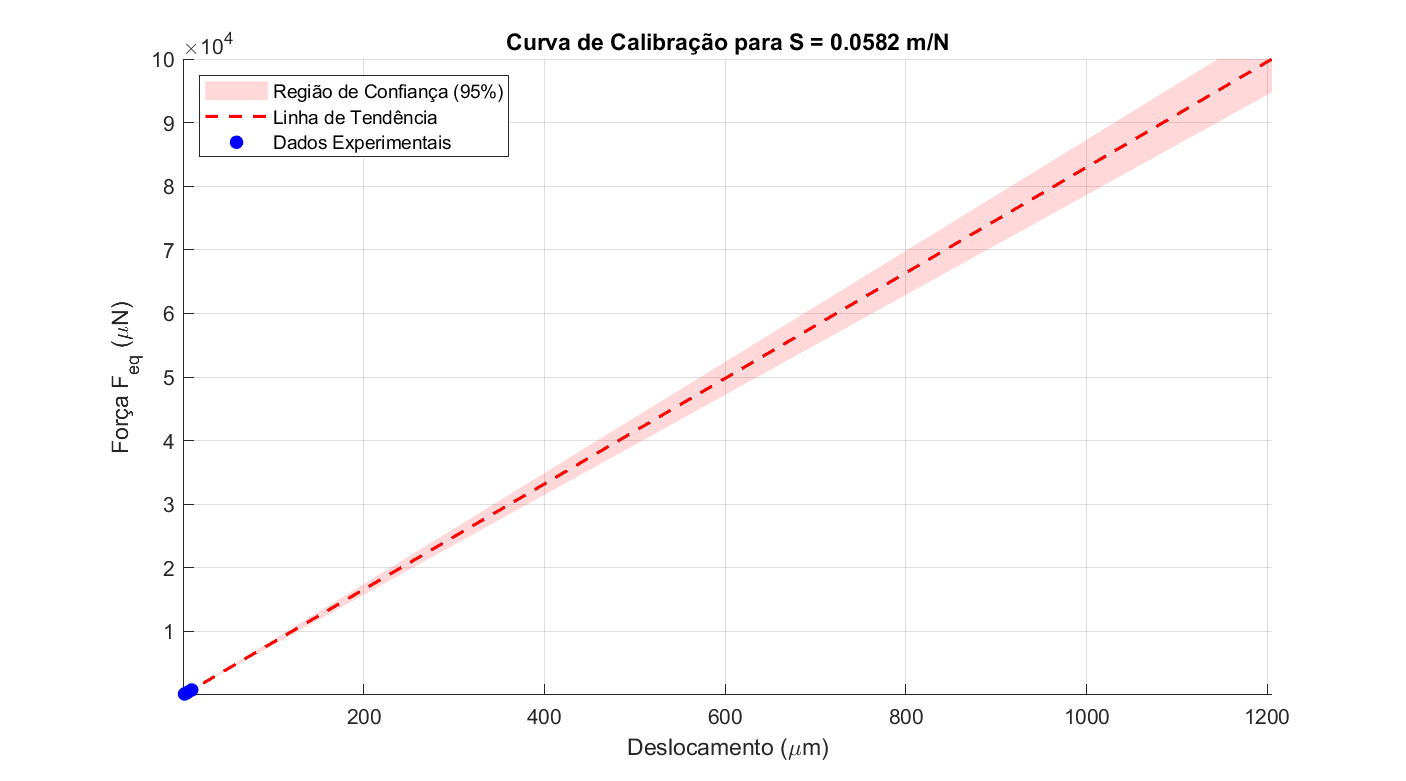
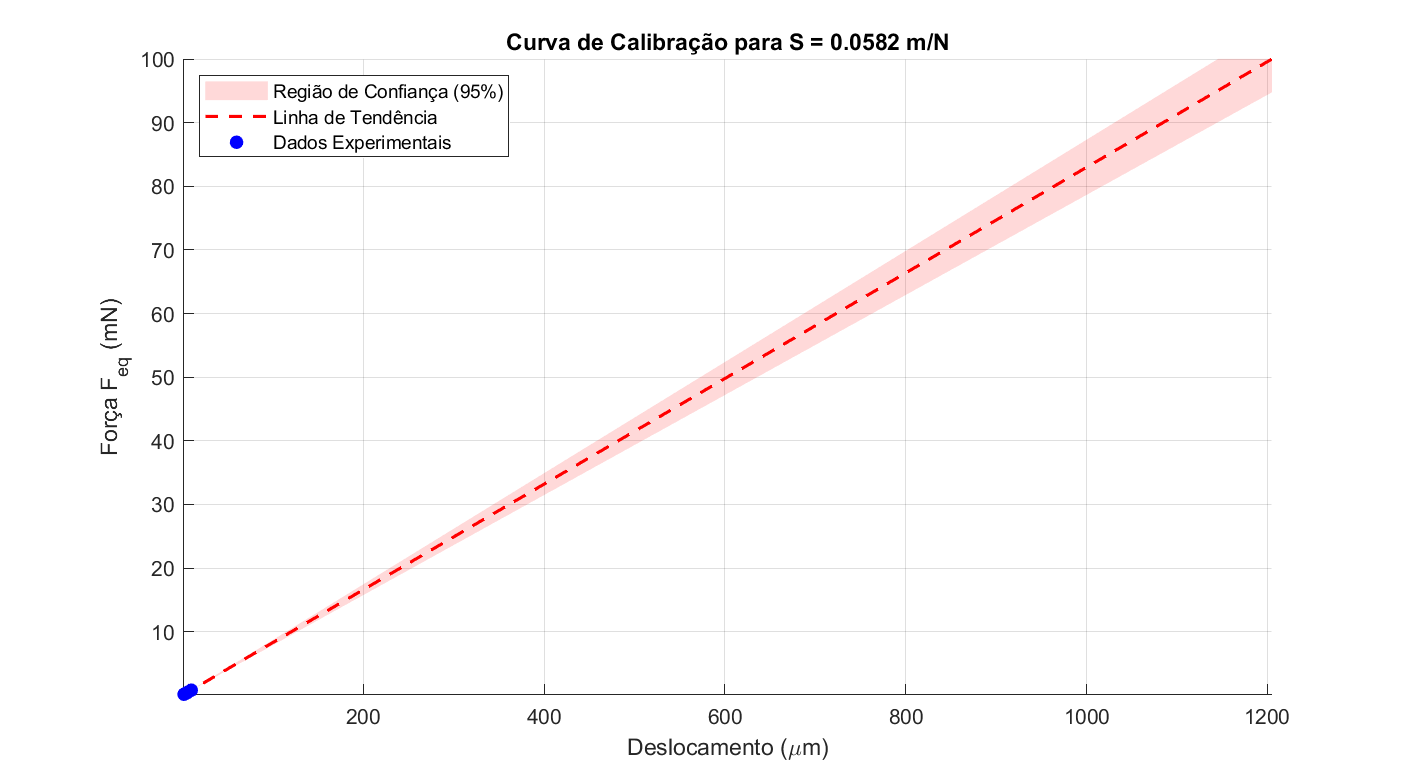
Atualização do range de forças: 0,5 até 100 mN

diff --git a/Análises/src/graph_calibracao.m b/Análises/src/graph_calibracao.m
@@ -1,4 +1,5 @@
 clear all; clc;
+
 % ==============================================================================
 % 1. KNOWN INPUT DATA
 % ==============================================================================
@@ -8,22 +9,25 @@ S_maior = 0.0939; % [m/N]
 S_S2 = 0.0517;
 S_1_junho = 0.0518;
 
-% Vetor da primeira coluna (Deslocamento/Deflexão)
+% Vetor da primeira coluna (Deslocamento/Deflexão) em µm
 d = [1.8039, 3.9369, 5.8372, 9.7834];
 d_maior = [3.3523, 6.7382, 9.5474, 14.2316];
 d_S2 = [1.843000, 2.953000, 3.832000, 8.125000, 12.431000, 16.988000, 11.738000, 16.135000, 21.305000, 17.254000, 23.252000, 30.319000, 25.455000, 35.177000, 46.763500, 31.620000, 39.336500];
 d_1_junho = [2.403500, 3.558790, 8.633470, 13.283070, 17.047410, 11.899050, 11.899050, 17.967160, 23.099000, 17.077400, 25.282920, 43.202470, 19.815610, 30.164730, 39.264370, 26.991540, 63.414910];
+
 d_todos = {d, d_maior, d_S2, d_1_junho};
 
-% Vetor da segunda coluna (Força)
+% Vetor da segunda coluna (Força) em µN
 f = [167.1960, 324.3694, 486.3337, 808.3664];
 f_maior = [167.1960, 418.8246, 618.1822, 918.3950];
 f_S2 = [38.7153, 73.7835, 108.8517, 166.9689, 318.2088, 469.4487, 219.4649, 418.2556, 617.0463, 323.9287, 617.3423, 910.7560, 481.2407, 917.1472, 1353.0536, 634.0472, 807.2681];
 f_1_junho = [38.7153, 73.7835, 108.8517, 166.9689, 318.2088, 469.4487, 219.4649, 418.2556, 617.0463, 323.9287, 617.3423, 910.7560, 481.2407, 917.1472, 1353.0536, 634.0472, 807.2681];
-f_todos = {f, f_maior, f_S2, f_1_junho};
 
+f_todos = {f, f_maior, f_S2, f_1_junho};
 S_todos = [S, S_maior, S_S2];
+
 titulos_janela = {'S = 0.0582', 'S = 0.0939', 'S = 0.0697', 'S = 1 junho'};
+
 caminhos_salvamento = {
     'C:\Users\thami\OneDrive - unb.br\FGA\Balança de Microempuxo - LaSE\Integrated-Software-Architecture-for-Micro-Thrust-Balance\Análises\resultados\carga_constante\sensibilidade intermediaria', ...
     'C:\Users\thami\OneDrive - unb.br\FGA\Balança de Microempuxo - LaSE\Integrated-Software-Architecture-for-Micro-Thrust-Balance\Análises\resultados\carga_constante\maior sensibilidade', ...
@@ -32,12 +36,13 @@ caminhos_salvamento = {
 };
 
 % ==============================================================================
-% DEFINIÇÃO DO REGIME DE EXTRAPOLAÇÃO: 10 µN até 100.000 µN (100 mN)
+% DEFINIÇÃO DO REGIME DE EXTRAPOLAÇÃO: 50 µN (0.05 mN) até 100.000 µN (100 mN)
+% (Mantemos o vetor interno em µN para o cálculo correto da Incerteza/Matrizes)
 % ==============================================================================
-F_extrapolada = linspace(10, 100000, 1000); 
+F_extrapolada = linspace(50, 100000, 1000); 
 
 % --- Loop 1: Gerar, plotar e salvar os gráficos individuais ---
-for i = 1:3 % Atualizado para 3 gráficos ao invés de 4
+for i = 1:3 
     d_atual = d_todos{i};
     f_atual = f_todos{i};
     S_atual = S_todos(i);
@@ -64,7 +69,7 @@ for i = 1:3 % Atualizado para 3 gráficos ao invés de 4
     cov_ab = C(1,2);
     % -----------------------------------------------------
     
-    % Deslocamento Extrapolado (Baseado no vetor F_extrapolada de 10 a 100k)
+    % Deslocamento Extrapolado (Baseado no vetor F_extrapolada)
     d_plot = F_extrapolada / a; 
     
     % Propagação da Incerteza 
@@ -79,23 +84,23 @@ for i = 1:3 % Atualizado para 3 gráficos ao invés de 4
        
     hold on;
     
-    % 1. Plota a região de confiança sombreada 
-    fill([d_plot, fliplr(d_plot)], [f_sup, fliplr(f_inf)], 'r', ...
+    % 1. Plota a região de confiança sombreada (Forças divididas por 1000 para virar mN)
+    fill([d_plot, fliplr(d_plot)], [f_sup/1000, fliplr(f_inf)/1000], 'r', ...
         'FaceAlpha', 0.15, 'EdgeColor', 'none', 'HandleVisibility', 'on');
     
-    % 2. Plota a linha de tendência extrapolada
-    plot(d_plot, F_extrapolada, 'r--', 'LineWidth', 1.5); 
+    % 2. Plota a linha de tendência extrapolada (em mN)
+    plot(d_plot, F_extrapolada/1000, 'r--', 'LineWidth', 1.5); 
     
-    % 3. Plota os dados experimentais 
-    plot(d_atual, f_atual, 'bo', 'MarkerSize', 6, 'MarkerFaceColor', 'b'); 
+    % 3. Plota os dados experimentais (em mN)
+    plot(d_atual, f_atual/1000, 'bo', 'MarkerSize', 6, 'MarkerFaceColor', 'b'); 
     
     legend('Região de Confiança (95%)', 'Linha de Tendência', 'Dados Experimentais', 'Location', 'northwest');
     title(sprintf('Curva de Calibração para S = %.4f m/N', S_atual));
     xlabel('Deslocamento (\mum)');
-    ylabel('Força F_{eq} (\muN)');
+    ylabel('Força F_{eq} (mN)'); % Label atualizado para mN
     
-    % Impondo limites (10 a 100.000 µN)
-    ylim([10 100000]);
+    % Impondo limites (0.05 a 100 mN)
+    ylim([0.05 100]);
     xlim([min(d_plot) max(d_plot)]);
     
     grid on;
@@ -114,13 +119,12 @@ end
 % --- Nova Figura: Comparativo das Curvas de Tendência ---
 fig_comp = figure('Name', 'Comparativo de Sensibilidades', 'Color', 'w', 'Position', [300, 200, 900, 500]);
 hold on;
-estilos_linha = {'-k', '--k', ':k'}; % Atualizado para 3 estilos
+
+estilos_linha = {'-k', '--k', ':k'}; 
 legendas_comp = cell(1, 3);
 fprintf('\n--- Equações das Retas de Tendência (Feq = a * d) ---\n');
+a_min = inf; 
 
-a_min = inf; % Variável para encontrar a reta com menor inclinação e definir o limite X
-
-% Loop alterado para 3
 for i = 1:3 
     d_atual = d_todos{i};
     f_atual = f_todos{i};
@@ -134,27 +138,28 @@ for i = 1:3
         a_min = a;
     end
     
-    % Extrapolação baseada na força (10 a 100.000 µN)
+    % Extrapolação baseada na força
     d_plot = F_extrapolada / a;
     
-    % Plota a linha extrapolada
-    plot(d_plot, F_extrapolada, estilos_linha{i}, 'LineWidth', 1.5);
+    % Plota a linha extrapolada (convertida para mN dividindo por 1000)
+    plot(d_plot, F_extrapolada/1000, estilos_linha{i}, 'LineWidth', 1.5);
     
-    % Legenda e Impressão
+    % Legenda e Impressão (Mantendo a equação impressa no console com as unidades da física originais)
     legendas_comp{i} = sprintf('S = %.4f m/N', S_atual);
-    fprintf('S = %.4f m/N -> Feq = %.4f * d\n', S_atual, a);
+    fprintf('S = %.4f m/N -> Feq(µN) = %.4f * d(µm)\n', S_atual, a);
 end
 
 legend(legendas_comp, 'Location', 'northwest');
 title('Comparativo das Curvas de Calibração para Diferentes Configurações de Sensibilidade');
 xlabel('Deslocamento (\mum)');
-ylabel('Força F_{eq} (\muN)');
+ylabel('Força F_{eq} (mN)'); % Label atualizado
 
-% Impondo limites no gráfico comparativo
-ylim([10 100000]);
+% Impondo limites no gráfico comparativo de 0.05 mN até 100 mN
+ylim([0.05 100]);
 
-% Para o limite de deslocamento no gráfico comparativo, calculamos com base no a_min encontrado no loop
+% Para o limite de deslocamento no gráfico comparativo
 xlim([0 max(F_extrapolada / a_min)]);
+
 grid on;
 hold off;
 

diff --git a/Análises/src/superficieCalibracao.m b/Análises/src/superficieCalibracao.m
@@ -14,7 +14,7 @@ S       = 0.0582;
 S_maior = 0.0939; 
 S_S2    = 0.0697;
 S_1_junho = 0.0518;
-S_10_junho = ;
+S_10_junho = 0.04;
 
 % Displacement and Force vectors for each case
 d_inter = [1.8039, 3.9369, 5.8372, 9.7834];
@@ -124,7 +124,7 @@ xlabel('Deslocamento (\mum)');
 ylabel('Força F_{eq} (\muN)');
 
 % Limite Y imposto de 10 a 100.000 µN mantido
-ylim([10 100000]); 
+ylim([50 100000]); 
 % Limite X forçado de 0 até 4000 µm
 xlim([0 4000]);
 